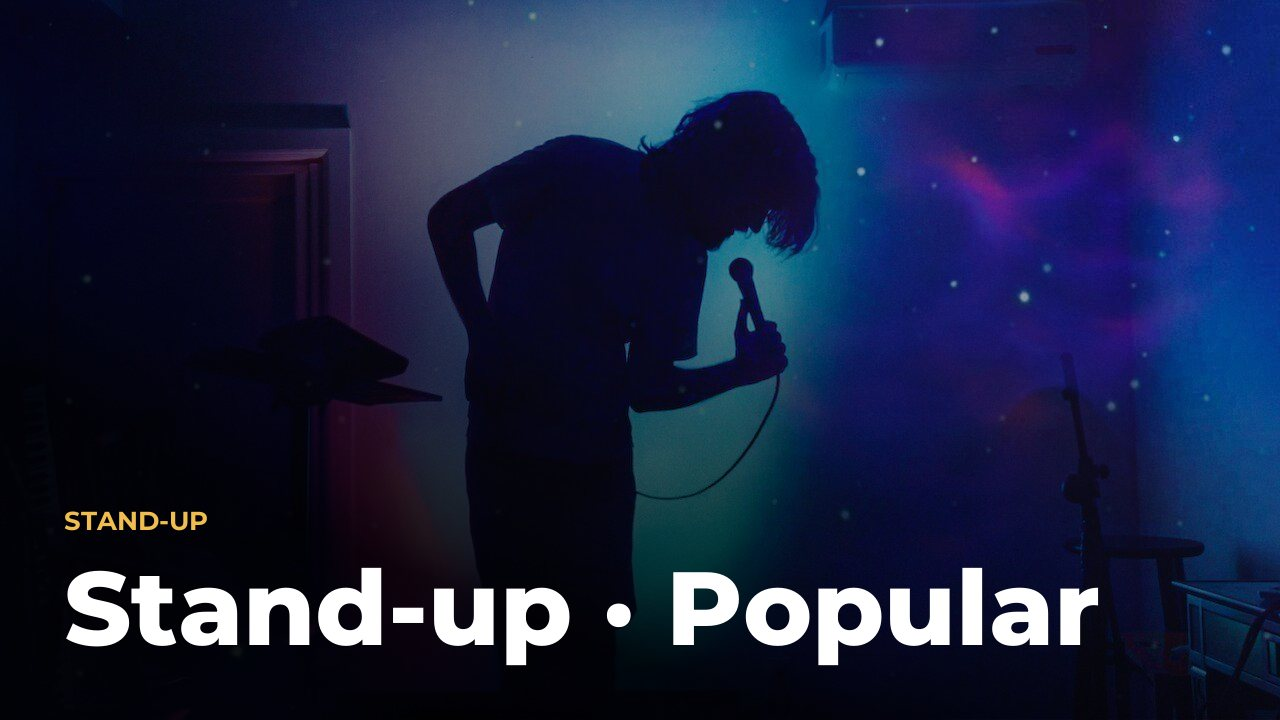
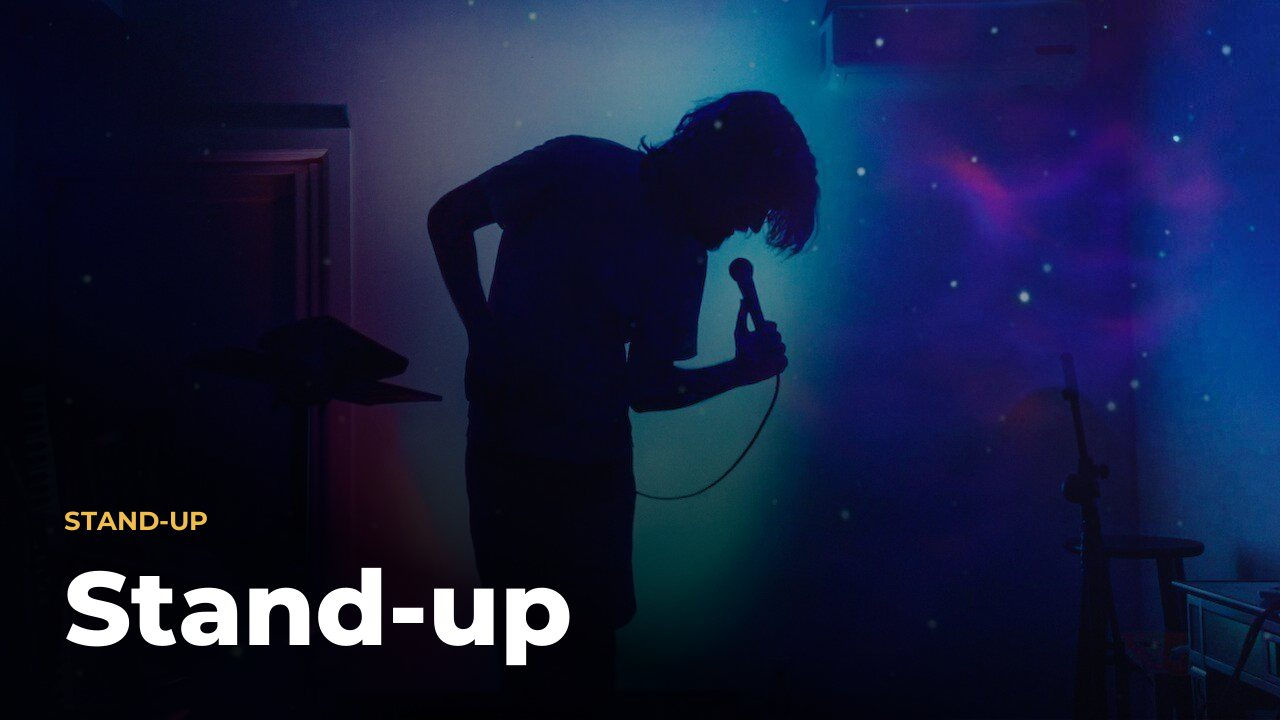
Stand-up card reads "Stand-up", not "Stand-up · Popular" (Refs #147) (#148)
The one Stand-up card holds Popular + New since #143, but kept the Popular part's title and picture.
union_card takes the card's own title; art re-rendered for standup only. Library name/id unchanged.
Test: no union card title names a variant, art title == spec title (fails on the old spec).

Claude-Session: https://claude.ai/code/session_012BG1D9LPx35Ede8GrWZ9zA

Changed region(s): [[0.4688, 0.7639, 0.875, 0.9472]]

diff --git a/generator/make_spec.py b/generator/make_spec.py
@@ -246,11 +246,14 @@ UNION_CAP = 2000
 PART_KEYS = ('slug', 'sort', 'min_votes', 'min_age_days', 'tv_air_window', 'provider', 'depth')
 
 
-def union_card(cards, folder):
-    """cards = the discover cards (Popular first, then New, then Top Rated) -> ONE union catalog under the Popular slug."""
+def union_card(cards, folder, title=None):
+    """cards = the discover cards (Popular first, then New, then Top Rated) -> ONE union catalog under the Popular slug.
+    title: the card's own title when the Popular part's title names its variant (library name and id stay)."""
     base = cards[0]
     assert base['sort'] == 'popular'
     u = {k: base[k] for k in ('slug', 'library', 'title', 'eyebrow')}
+    if title:
+        u['title'] = title
     u.update(folders=[folder], kind='union', media=base['media'], sort='popular', min_votes=base['min_votes'], cap=UNION_CAP)
     for k in ('movie', 'series'):
         if k in base:
@@ -407,7 +410,7 @@ def main():
     cats.append(union_card([disc('standup' + ('' if v == 'popular' else f'-{v}'), f'Stand-up · {n}', f'Stand-up · {n}',
                                  {'popular': 'Stand-up', 'new': 'New · Stand-up'}[v], 'standup', ['movie', 'series'], v,
                                  movie=mp, series=sp, min_votes={'popular': 10, 'new': 3}[v])
-                           for v, n in VARIANTS[:2]], 'standup'))
+                           for v, n in VARIANTS[:2]], 'standup', title='Stand-up'))   # #147: one card, no "· Popular"
 
     # people: one catalog per person+role; folder list in CSV rank order
     people = {}

diff --git a/tests/test_union_card.py b/tests/test_union_card.py
@@ -106,6 +106,16 @@ class SpecShape(unittest.TestCase):
             self.assertEqual(c['library'], PRE[c['slug']]['library'])      # the server library id/name are unchanged
         self.assertGreaterEqual(n, 21 * 2 + 2)
 
+    def test_no_union_card_title_names_a_variant(self):
+        """#147: the one Stand-up card read "Stand-up · Popular" (the Popular part's title); a union card and its art
+        name the whole card. The library name stays, so the server library id/name don't move."""
+        art = {c['slug']: c for c in json.loads((ROOT / 'generator' / 'art.json').read_text(encoding='utf-8'))['cards']}
+        for c in SPEC['catalogs']:
+            if c['kind'] == 'union':
+                self.assertNotIn('·', c['title'], c['slug'])
+                self.assertEqual(art[c['slug']]['title'], c['title'], c['slug'])
+        self.assertEqual(next(c for c in SPEC['catalogs'] if c['slug'] == 'standup')['title'], 'Stand-up')
+
     def test_control_the_518_card_spec_fails_the_shape(self):
         """The spec before #143 had 518 cards and three Streaming folders: the shape test must be able to fail."""
         old_folders = ['streaming-popular', 'streaming-new']
